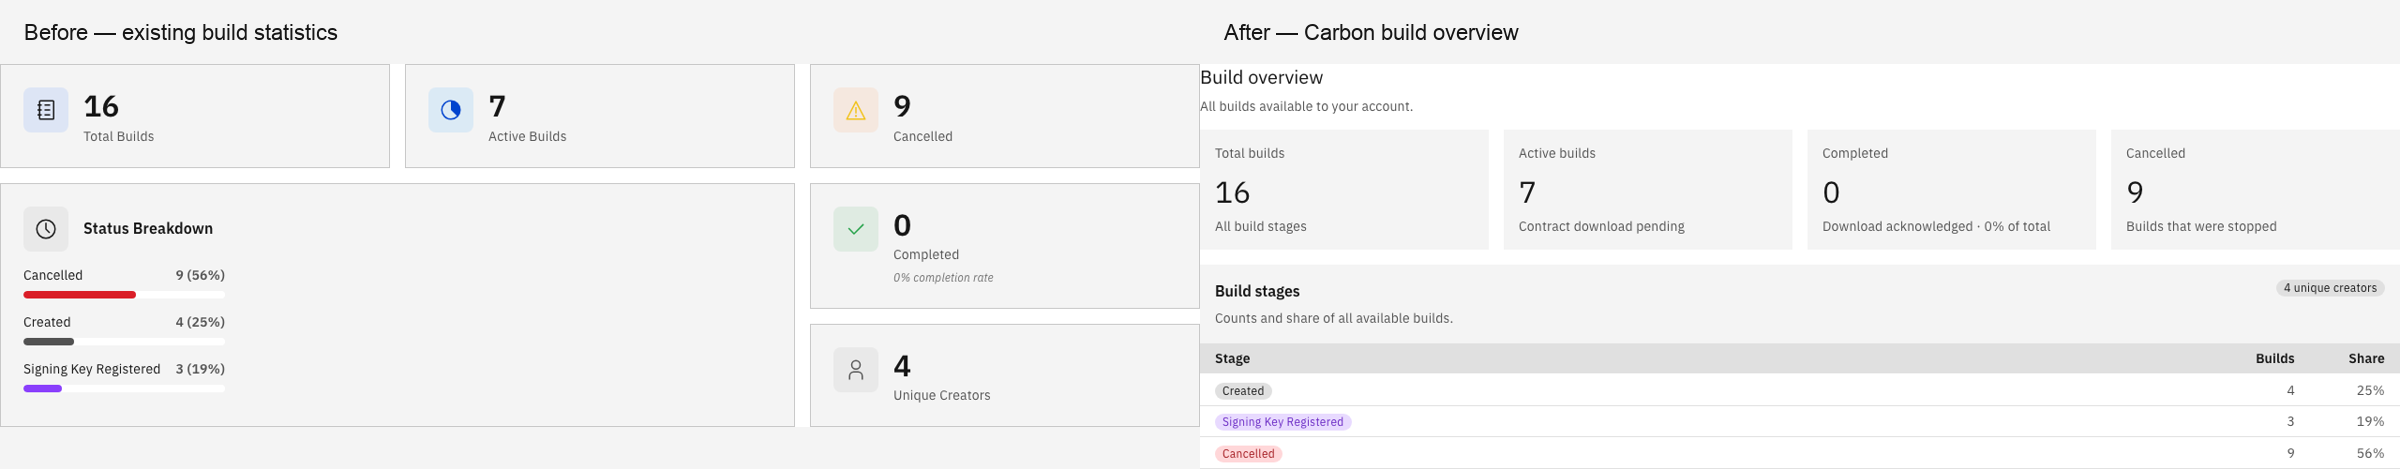
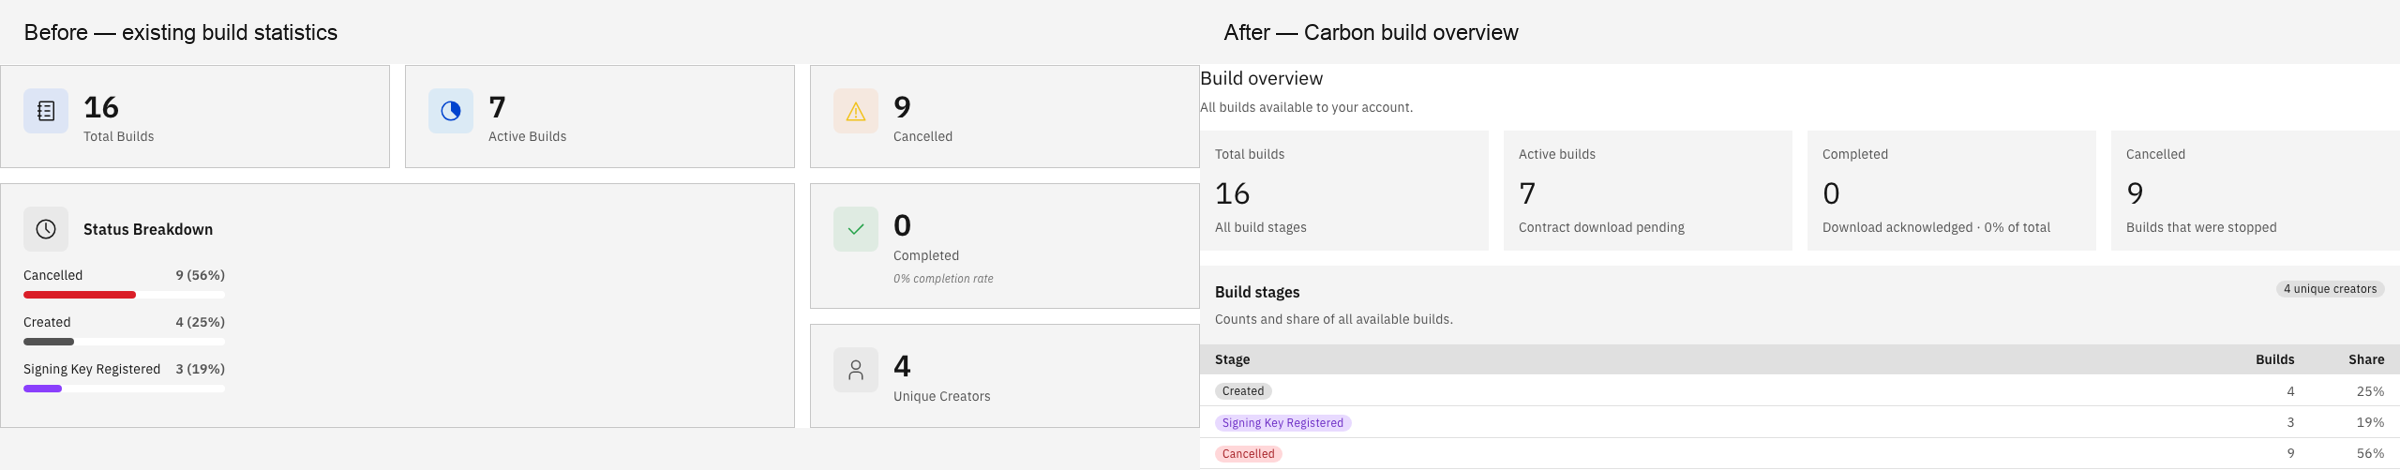
docs: refresh build statistics comparisons against current main

diff --git a/review-assets/build-statistics/index.html b/review-assets/build-statistics/index.html
@@ -1,5 +1,5 @@
 <!doctype html><html lang="en"><head><meta charset="utf-8"><meta name="viewport" content="width=device-width,initial-scale=1"><title>Build statistics — before and after</title><style>
 *{box-sizing:border-box}body{margin:0;background:#f4f4f4;color:#161616;font:14px/1.5 system-ui}header{background:#161616;color:white;padding:24px 32px}h1{font-size:28px;font-weight:400;margin:0 0 8px}header p{margin:0;color:#c6c6c6}.layout{display:grid;grid-template-columns:250px minmax(0,1fr)}nav{padding:16px 0;background:white;position:sticky;top:0;height:100vh;overflow:auto}nav button{display:block;width:100%;text-align:left;background:white;border:0;border-left:3px solid transparent;padding:16px;cursor:pointer;font:inherit}nav button[aria-current=true]{border-color:#0f62fe;background:#e0e0e0;font-weight:600}main{min-width:0;padding:24px}h2{font-size:20px;font-weight:400}a{color:#0f62fe}.toolbar{display:flex;flex-wrap:wrap;gap:16px;margin:16px 0}.pair{display:grid;grid-template-columns:1fr 1fr;gap:16px;align-items:start}figure{margin:0;background:white;min-width:0}figcaption{padding:12px 16px;font-weight:600;border-bottom:1px solid #e0e0e0}img{display:block;width:100%;height:auto}.single .pair{grid-template-columns:1fr}.before-only #after,.after-only #before{display:none}@media(max-width:900px){.pair{grid-template-columns:1fr}.layout{grid-template-columns:180px minmax(0,1fr)}}@media(max-width:600px){.layout{display:block}nav{position:static;height:180px}main{padding:16px}}
 </style></head><body><header><h1>Build statistics — before and after</h1><p>Actual React/Carbon views · identical example builds · central backend untouched · seven comparisons</p></header><div class="layout"><nav id="nav" aria-label="Comparisons"></nav><main id="main"><h2 id="title"></h2><div class="toolbar"><label>View <select id="mode"><option value="both">Before and after</option><option value="before">Before only</option><option value="after">After only</option></select></label><a id="combined" target="_blank">Open comparison PNG</a></div><div class="pair"><figure id="before"><figcaption>Before</figcaption><a id="before-link" target="_blank"><img id="before-image" alt=""></a></figure><figure id="after"><figcaption>After</figcaption><a id="after-link" target="_blank"><img id="after-image" alt=""></a></figure></div><p>Captures use sample data at 1600 × 1100, except the 390 px narrow-window example. Only the full-page capture expands the content scroll area. Empty, loading and mixed-stage examples render the component directly; Build Management shows it only when builds exist. No central backend mutations were performed.</p></main></div><script>
-const cases=[{"id": "01-overview", "title": "Build overview \u2014 desktop", "width": 1280, "height": 431.171875, "overflow": false}, {"id": "02-dark-overview", "title": "Build overview \u2014 dark theme", "theme": "g100", "width": 1280, "height": 431.171875, "overflow": false}, {"id": "03-page-context", "title": "Build Management \u2014 full page", "fullPage": true, "width": 1280, "height": 431.171875, "overflow": false}, {"id": "04-all-stages", "title": "Workflow, legacy and unknown stages", "variant": "mixed", "component": true, "width": 1216, "height": 757.6875, "overflow": false}, {"id": "05-mobile", "title": "Build overview \u2014 narrow window", "width": 358, "height": 663.171875, "overflow": false}, {"id": "06-empty", "title": "Build overview \u2014 empty state", "variant": "empty", "component": true, "width": 1216, "height": 378, "overflow": false}, {"id": "07-loading", "title": "Build overview \u2014 loading state", "component": true, "loading": true, "width": 1216, "height": 390, "overflow": false}];const nav=document.querySelector('#nav');cases.forEach((item,i)=>{const b=document.createElement('button');b.textContent=item.title;b.onclick=()=>show(i);nav.append(b)});function show(i){const c=cases[i];document.querySelector('#title').textContent=c.title;['before','after'].forEach(k=>{const u=k+'/'+c.id+'.png';document.querySelector('#'+k+'-image').src=u;document.querySelector('#'+k+'-image').alt=k+' — '+c.title;document.querySelector('#'+k+'-link').href=u});document.querySelector('#combined').href='comparisons/'+c.id+'.png';Array.from(nav.children).forEach((b,j)=>b.setAttribute('aria-current',i===j?'true':'false'));history.replaceState(null,'','#'+c.id)}document.querySelector('#mode').onchange=e=>{document.querySelector('#main').className=e.target.value==='both'?'':'single '+e.target.value+'-only'};const i=cases.findIndex(c=>c.id===location.hash.slice(1));show(i<0?0:i);
+const cases=[{"id": "01-overview", "title": "Build overview \u2014 desktop", "width": 1280, "height": 431.171875, "overflow": false}, {"id": "02-dark-overview", "title": "Build overview \u2014 dark theme", "theme": "g100", "width": 1280, "height": 431.171875, "overflow": false}, {"id": "03-page-context", "title": "Build Management \u2014 full page", "fullPage": true, "width": 1280, "height": 431.171875, "overflow": false}, {"id": "04-all-stages", "title": "Workflow, legacy and unknown stages", "variant": "mixed", "component": true, "width": 1280, "height": 757.6875, "overflow": false}, {"id": "05-mobile", "title": "Build overview \u2014 narrow window", "width": 358, "height": 663.171875, "overflow": false}, {"id": "06-empty", "title": "Build overview \u2014 empty state", "variant": "empty", "component": true, "width": 1280, "height": 378, "overflow": false}, {"id": "07-loading", "title": "Build overview \u2014 loading state", "component": true, "loading": true, "width": 1280, "height": 390, "overflow": false}];const nav=document.querySelector('#nav');cases.forEach((item,i)=>{const b=document.createElement('button');b.textContent=item.title;b.onclick=()=>show(i);nav.append(b)});function show(i){const c=cases[i];document.querySelector('#title').textContent=c.title;['before','after'].forEach(k=>{const u=k+'/'+c.id+'.png';document.querySelector('#'+k+'-image').src=u;document.querySelector('#'+k+'-image').alt=k+' — '+c.title;document.querySelector('#'+k+'-link').href=u});document.querySelector('#combined').href='comparisons/'+c.id+'.png';Array.from(nav.children).forEach((b,j)=>b.setAttribute('aria-current',i===j?'true':'false'));history.replaceState(null,'','#'+c.id)}document.querySelector('#mode').onchange=e=>{document.querySelector('#main').className=e.target.value==='both'?'':'single '+e.target.value+'-only'};const i=cases.findIndex(c=>c.id===location.hash.slice(1));show(i<0?0:i);
 </script></body></html>

diff --git a/review-assets/build-statistics/README.md b/review-assets/build-statistics/README.md
@@ -1,25 +1,27 @@
 # Build statistics — Carbon rework
 
-Before/after review for the Build Management statistics component. These are rendered React/Carbon captures with identical example builds.
+Before/after review for the Build Management statistics component, refreshed on 26 October 2026. The captures render the actual React/Carbon components with identical example builds.
 
 ## Scope
 
-- Baseline: public `main` at `d85c00b82962a897a3b4981b430befe608254cd4`.
-- Implementation: local branch `fix/build-statistics-carbon`, commit `17471496e54f241e0632775b4d01a0e97cdaa2c8`.
-- One independent commit changes only `src/components/BuildStatistics.jsx`, `src/styles/build-statistics.scss` and the statistics styles/import in `src/index.scss`.
-- Four aligned Carbon tiles, a compact stage table with standard tags, responsive layout and Carbon typography.
-- Missing creator IDs no longer invent an additional creator; unavailable data is disclosed. Completion still means acknowledged contract download.
-- No issue or pull request opened for this change yet; awaiting design review.
+- Before: current public `main`, `3b68396284e7f65ab51f405a3838639d91b97b26`.
+- After: signed commit `30f2b85d83f66908c9cd9d5c2aa8861f4b8ec17c` on `fix/build-statistics-carbon`, directly on that main commit.
+- Exactly three changed files: `src/components/BuildStatistics.jsx`, `src/styles/build-statistics.scss` and the statistics styles/import in `src/index.scss`.
+- The already merged shared headings, other pages, API services, auth, IPC, main process and dependency manifests are unchanged. This is independent of Analytics PR #104 and the multi-key work.
+- Four Carbon metric tiles and a compact stage table replace the custom icon cards and status bars. Only actual creator IDs count toward the unique-creator total; unavailable creator data is disclosed.
+- Completion still means acknowledged contract download. Finalized builds remain active until downloaded, and table search does not change the overview scope.
 
 ## Validation
 
-`npm ci`, `npm run build` and `git diff --check` passed. Browser checks covered counts, percentages, creator deduplication, legacy/unknown stages, empty/loading states, refresh, table search, build detail selection, create-dialog cancellation and viewer permissions. Layout checks passed at 390, 768, 900 and 1600 px in white and g100 themes with no document overflow or browser exceptions. [Functional checks](browser-results.json) · [Layout checks](layout-results.json).
+`npm ci`, `npm run build` and `git diff --check` passed using the current lockfile (Carbon React 1.119.0, Electron 45.0.0). Browser checks covered counts, shares, creator deduplication, legacy/unknown stages, empty/loading states, refresh, table search, build detail selection, create-dialog cancellation and viewer permissions. Eight layout/theme cases passed at 390, 768, 900 and 1600 px in white/g100. Both capture environments loaded IBM Plex Sans regular and semibold successfully. [Browser checks](browser-results.json) · [Layout checks](layout-results.json) · [Isolation verification](scope-verification.json).
 
-The repository has no configured test runner. Browser verification used an external review harness with mocked read-only API responses. No central backend data, accounts, credentials or key registrations were changed. This is UI validation, not a new end-to-end backend test.
+The repository has no configured test runner or lint script. Verification used an external browser harness with mocked read-only API responses; no central backend accounts, builds or signing keys were changed. These checks do not claim a new end-to-end backend test.
 
 ## Capture notes
 
-IBM Plex Sans regular and semibold loaded successfully for the baseline capture. Desktop captures use a 1600 × 1100 viewport; the narrow-window example uses 390 × 1100. Only the full-page capture expands the app content scroll area to include the complete build lists. Mixed-stage, empty and loading examples render the actual component directly: Build Management currently shows statistics only after loading and when builds exist. Percentages are rounded independently.
+Desktop viewport: 1600 × 1100; narrow window: 390 × 1100. Only the full-page capture expands the app content scroll area equally before and after to show both build lists. Mixed-stage, empty and loading examples render the actual component directly: Build Management currently mounts statistics only when loading has finished and builds exist. Percentages are rounded independently. The narrow-window stage table scrolls horizontally.
+
+Review images and validation notes live on a separate documentation branch and are not part of the application change.
 
 ## Comparisons
 
